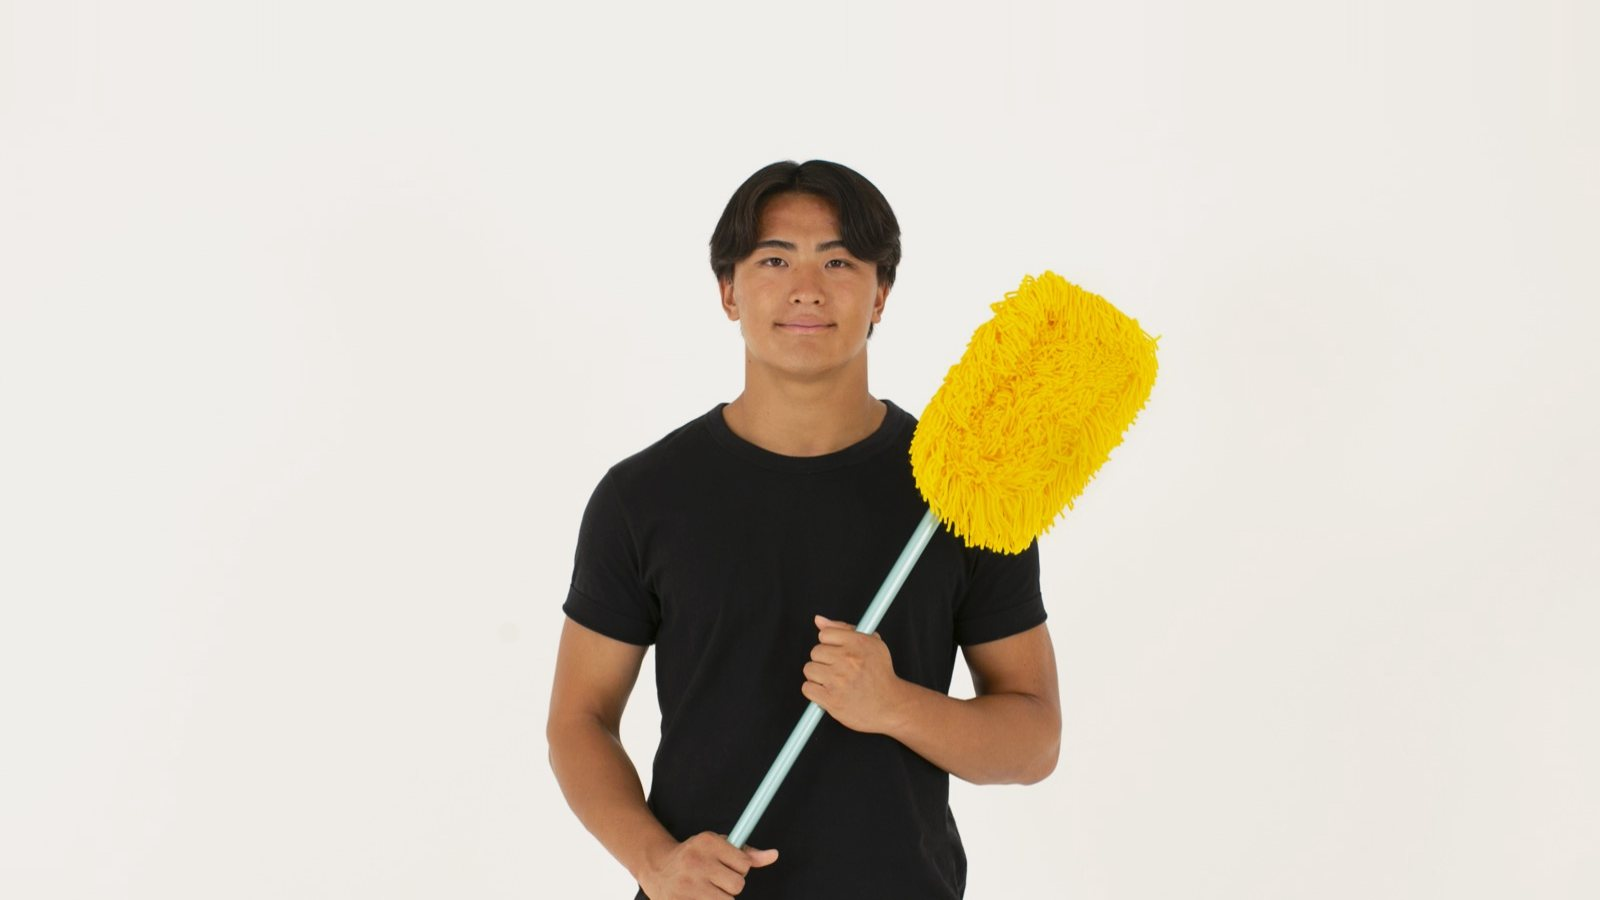
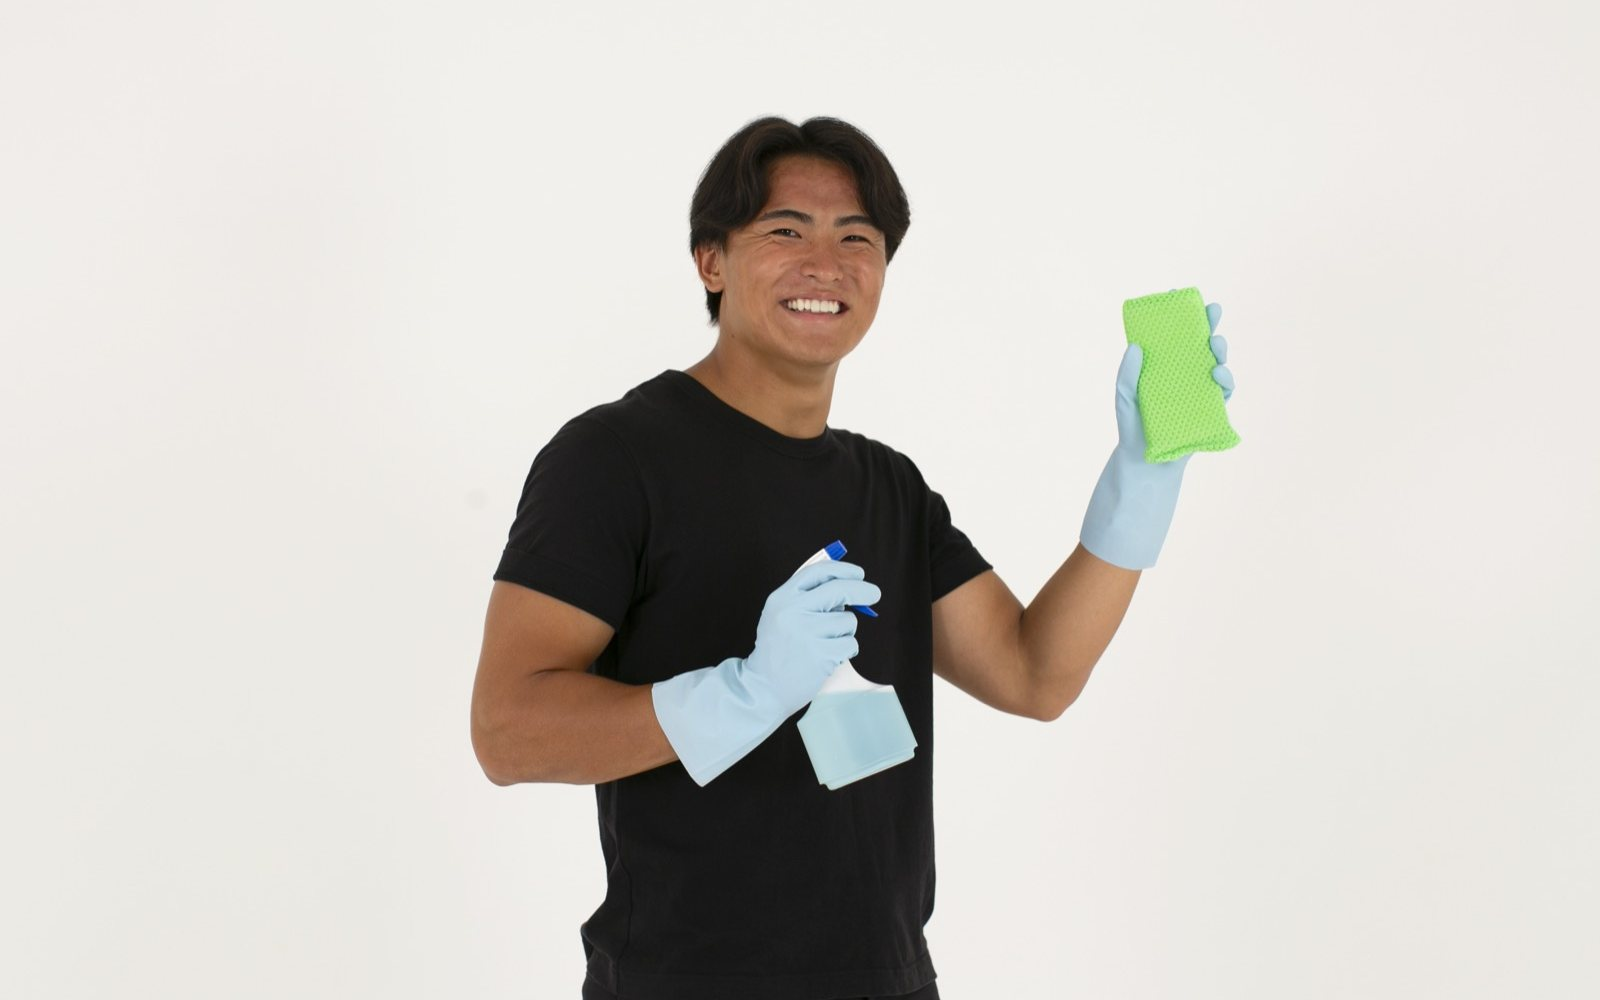
会社情報・公式LINE・写真差し替えを反映
- トップに掃除機写真を追加（2カラムヒーロー）
- 厨房清掃=霧吹き / 衛生管理=モップ写真に入れ替え
- 問い合わせフォーム → 公式LINE誘導（ボタン+QRコード）
- フッター: 代表者・公式LINE・対応エリア（一都三県）

Changed region(s): [[0.2812, 0.0933, 0.7812, 1.0]]

diff --git a/index.html b/index.html
@@ -50,6 +50,7 @@
         <div class="hero__bubble hero__bubble--3"></div>
       </div>
       <div class="hero__inner">
+        <div class="hero__content">
         <p class="hero__eyebrow">飲食店向け衛生管理サービス</p>
         <h1 class="hero__title">
           私たちが売っているのは、<br>
@@ -69,6 +70,10 @@
           <li>営業後の人件費削減</li>
           <li>従業員の負担軽減</li>
         </ul>
+        </div>
+        <div class="hero__visual">
+          <img src="img/hero.jpg" alt="掃除機で床を清掃するSANIS WORKSのスタッフ" width="860" height="1289">
+        </div>
       </div>
     </section>
 
@@ -286,43 +291,16 @@
         <h2 class="section__title">お問い合わせ</h2>
         <p class="contact__lead">
           ご相談・お見積りは無料です。<br>
-          下記フォームよりお気軽にお問い合わせください。
+          公式LINEより、お気軽にお問い合わせください。
         </p>
-        <!-- TODO: 送信先が決まったら action を差し替え（フォームサービス or サーバー側処理） -->
-        <form class="contact__form" id="contact-form" action="#" method="post">
-          <div class="form-row">
-            <label for="f-name">お名前 <span class="req">必須</span></label>
-            <input type="text" id="f-name" name="name" required autocomplete="name" placeholder="例）山田 太郎">
+        <div class="contact__line">
+          <a href="https://line.me/R/ti/p/@403xkrav" target="_blank" rel="noopener" class="btn btn--line">公式LINEで相談する</a>
+          <p class="contact__line-note">店舗の規模や営業時間、現在のお悩みなどをお送りください。<br>担当者より折り返しご連絡いたします。</p>
+          <div class="contact__qr">
+            <img src="img/line-qr.png" alt="SANIS WORKS 公式LINE 友だち追加用QRコード" width="140" height="140">
+            <p>PCでご覧の方は<br>QRコードから友だち追加</p>
           </div>
-          <div class="form-row">
-            <label for="f-shop">店舗名 <span class="req">必須</span></label>
-            <input type="text" id="f-shop" name="shop" required autocomplete="organization" placeholder="例）居酒屋さにす 渋谷店">
-          </div>
-          <div class="form-row">
-            <label for="f-email">メールアドレス <span class="req">必須</span></label>
-            <input type="email" id="f-email" name="email" required autocomplete="email" placeholder="例）info@example.com">
-          </div>
-          <div class="form-row">
-            <label for="f-tel">電話番号</label>
-            <input type="tel" id="f-tel" name="tel" autocomplete="tel" placeholder="例）090-1234-5678">
-          </div>
-          <div class="form-row">
-            <label for="f-plan">ご興味のあるプラン</label>
-            <select id="f-plan" name="plan">
-              <option value="">選択してください</option>
-              <option>ライトプラン（月額45,000円）</option>
-              <option>スタンダードプラン（月額85,000円）</option>
-              <option>エンタープライズプラン（ご相談）</option>
-              <option>未定・相談したい</option>
-            </select>
-          </div>
-          <div class="form-row">
-            <label for="f-msg">お問い合わせ内容</label>
-            <textarea id="f-msg" name="message" rows="5" placeholder="店舗の規模、営業時間、現在のお悩みなどをご記入ください"></textarea>
-          </div>
-          <p class="contact__privacy">お預かりした個人情報は、お問い合わせ対応の目的以外には使用いたしません。</p>
-          <button type="submit" class="btn btn--primary btn--wide">送信する</button>
-        </form>
+        </div>
       </div>
     </section>
 
@@ -333,10 +311,9 @@
     <div class="footer__inner">
       <p class="footer__logo"><img src="img/logo-h-white.png" alt="SANIS WORKS"></p>
       <dl class="footer__info">
-        <!-- TODO: 会社情報が届いたら差し替え -->
-        <div><dt>所在地</dt><dd>（住所を掲載予定）</dd></div>
-        <div><dt>電話番号</dt><dd>（電話番号を掲載予定）</dd></div>
-        <div><dt>対応エリア</dt><dd>（対応エリアを掲載予定）</dd></div>
+        <div><dt>代表者</dt><dd>中原 花梨</dd></div>
+        <div><dt>お問い合わせ</dt><dd><a href="https://line.me/R/ti/p/@403xkrav" target="_blank" rel="noopener">公式LINE</a></dd></div>
+        <div><dt>対応エリア</dt><dd>一都三県（東京・神奈川・埼玉・千葉）</dd></div>
       </dl>
       <p class="footer__copy">&copy; <span id="year">2026</span> SANIS WORKS All Rights Reserved.</p>
     </div>

diff --git a/css/style.css b/css/style.css
@@ -185,6 +185,18 @@ a { color: inherit; text-decoration: none; }
   margin: 0 auto;
   width: 100%;
   color: #fff;
+  display: grid;
+  grid-template-columns: 1.25fr 0.75fr;
+  gap: 56px;
+  align-items: center;
+}
+
+.hero__visual img {
+  width: 100%;
+  max-width: 400px;
+  margin: 0 auto;
+  border-radius: 20px;
+  box-shadow: 0 24px 60px rgba(9, 34, 61, 0.35);
 }
 
 .hero__eyebrow {
@@ -583,55 +595,39 @@ a { color: inherit; text-decoration: none; }
 /* ---------- Contact ---------- */
 .contact__lead { margin: -24px 0 40px; color: var(--c-text-sub); }
 
-.contact__form {
+.contact__line {
   background: #fff;
   border: 1px solid var(--c-line);
   border-radius: var(--radius);
-  padding: 44px 40px;
+  padding: 48px 40px;
   box-shadow: var(--shadow);
+  text-align: center;
 }
-.form-row { margin-bottom: 24px; }
-.form-row label {
-  display: block;
-  font-weight: 700;
-  font-size: 0.92rem;
-  margin-bottom: 8px;
-}
-.req {
-  display: inline-block;
-  background: #f0564a;
+.btn--line {
+  background: #06c755;
   color: #fff;
-  font-size: 0.7rem;
-  font-weight: 700;
-  padding: 0.15em 0.8em;
-  border-radius: 4px;
-  margin-left: 8px;
-  vertical-align: 2px;
+  font-size: 1.15rem;
+  padding: 1em 3em;
+  box-shadow: 0 6px 20px rgba(6, 199, 85, 0.35);
 }
-.form-row input,
-.form-row select,
-.form-row textarea {
-  width: 100%;
-  padding: 0.85em 1em;
-  border: 1.5px solid var(--c-line);
-  border-radius: 10px;
-  font-family: inherit;
-  font-size: 1rem;
-  background: #fbfdfe;
-  transition: border-color 0.2s ease, box-shadow 0.2s ease;
-}
-.form-row input:focus,
-.form-row select:focus,
-.form-row textarea:focus {
-  outline: none;
-  border-color: var(--c-accent);
-  box-shadow: 0 0 0 3px rgba(116, 189, 34, 0.2);
-}
-.contact__privacy {
-  font-size: 0.8rem;
+.btn--line:hover { box-shadow: 0 10px 26px rgba(6, 199, 85, 0.45); }
+.btn--line::before { content: "💬 "; }
+.contact__line-note {
+  font-size: 0.9rem;
   color: var(--c-text-sub);
-  margin-bottom: 24px;
+  margin: 20px 0 28px;
 }
+.contact__qr {
+  display: inline-flex;
+  align-items: center;
+  gap: 16px;
+  padding: 16px 22px;
+  border: 1px dashed var(--c-line);
+  border-radius: 12px;
+  text-align: left;
+}
+.contact__qr img { border-radius: 6px; }
+.contact__qr p { font-size: 0.82rem; color: var(--c-text-sub); line-height: 1.6; }
 
 /* ---------- フッター ---------- */
 .footer {
@@ -653,6 +649,8 @@ a { color: inherit; text-decoration: none; }
 .footer__info div { display: flex; gap: 10px; }
 .footer__info dt { font-weight: 700; color: #a8dd6e; }
 .footer__info dd { opacity: 0.85; }
+.footer__info dd a { text-decoration: underline; }
+.footer__info dd a:hover { opacity: 0.8; }
 .footer__copy { font-size: 0.78rem; opacity: 0.6; }
 
 /* ---------- スクロールアニメーション ---------- */
@@ -726,6 +724,8 @@ a { color: inherit; text-decoration: none; }
 }
 
 @media (max-width: 1023px) {
+  .hero__inner { grid-template-columns: 1fr; gap: 44px; }
+  .hero__visual img { max-width: 320px; display: block; }
   .plan__grid { grid-template-columns: 1fr; max-width: 520px; margin: 0 auto; gap: 40px; }
   .plan-card--featured { transform: none; }
   .plan-card--featured:hover { transform: translateY(-6px); }
@@ -746,7 +746,8 @@ a { color: inherit; text-decoration: none; }
   .problems__list { flex-direction: column; gap: 8px; }
 
   .reason-item { padding: 22px 20px; gap: 16px; }
-  .contact__form { padding: 32px 22px; }
+  .contact__line { padding: 36px 22px; }
+  .contact__qr { display: none; } /* スマホはQR不要（ボタンで直接LINEへ） */
   .cta-band__inner { justify-content: center; text-align: center; }
   .footer__info { flex-direction: column; gap: 12px; align-items: center; }
 }

diff --git a/js/main.js b/js/main.js
@@ -44,11 +44,3 @@ targets.forEach((el) => io.observe(el));
 
 // フッターの年号
 document.getElementById('year').textContent = new Date().getFullYear();
-
-// お問い合わせフォーム
-// TODO: 送信先（フォームサービスのエンドポイント等）が決まったらここを差し替える
-const form = document.getElementById('contact-form');
-form.addEventListener('submit', (e) => {
-  e.preventDefault();
-  alert('お問い合わせフォームは現在準備中です。\n公開時には送信先を設定します。');
-});
